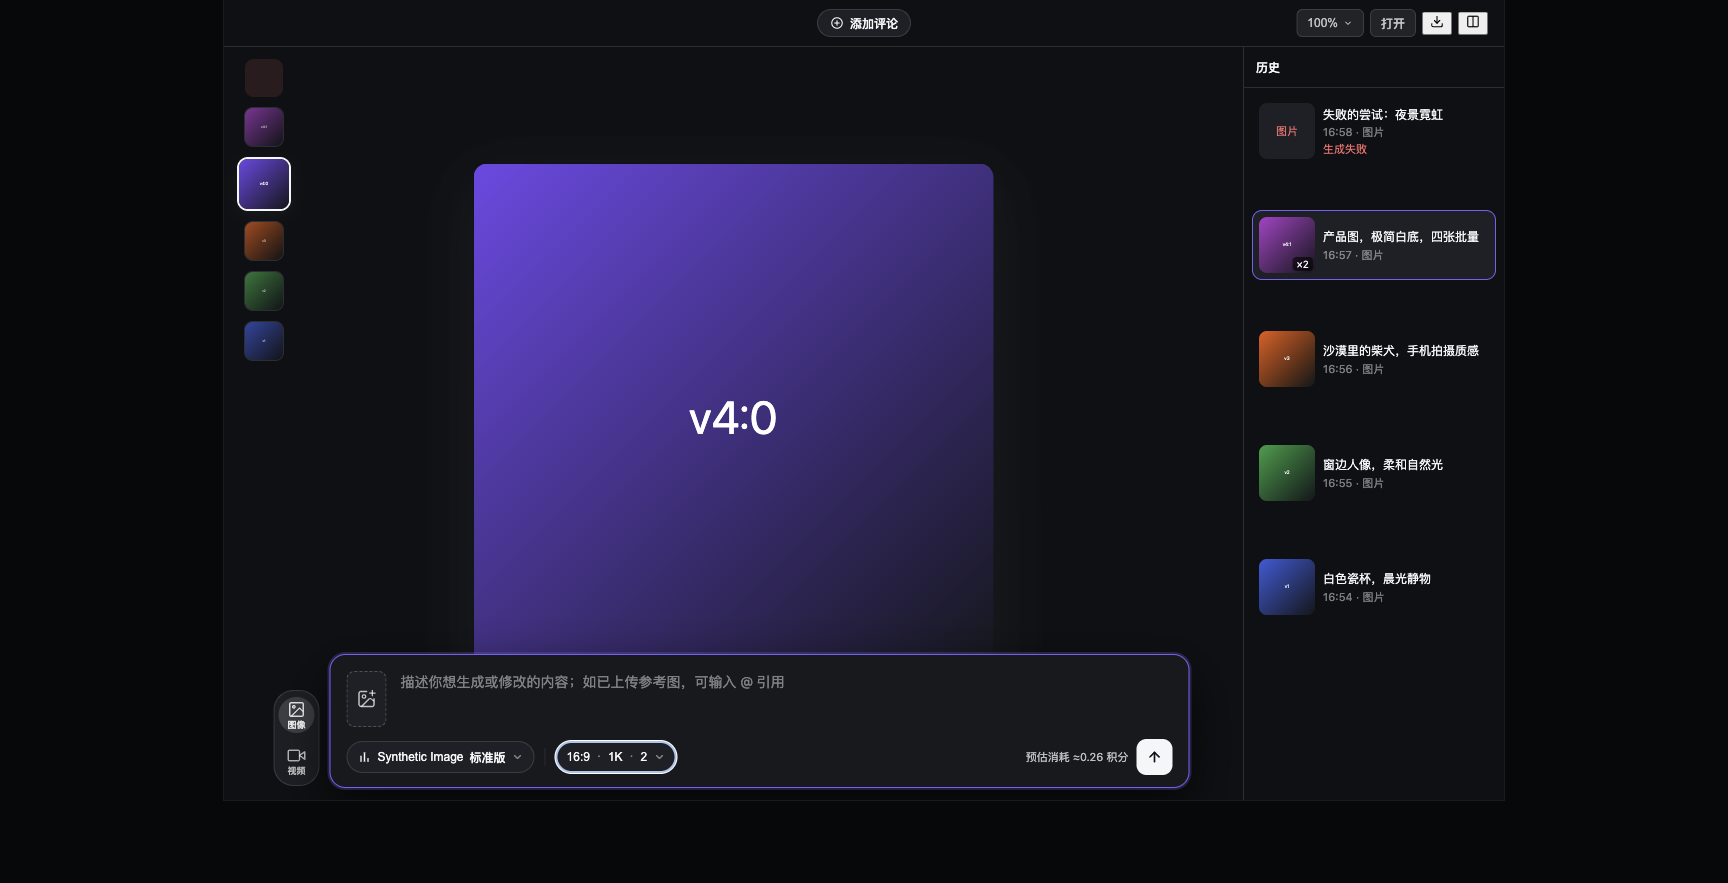
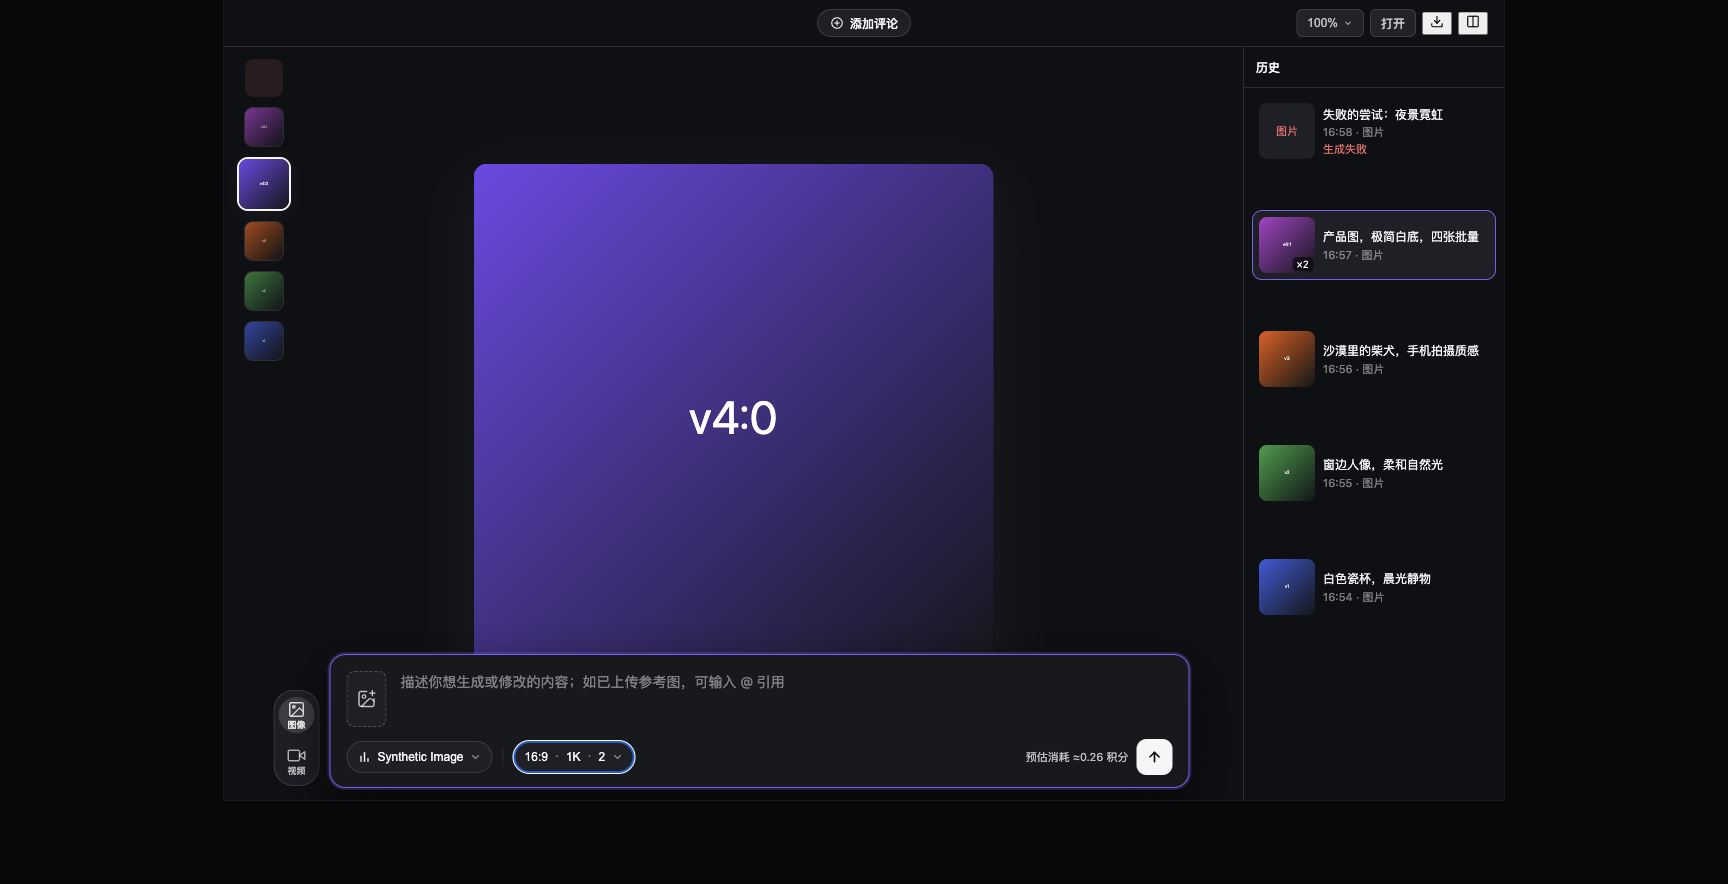
fix(viewer): 图像生成模型胶囊只显示模型名称 (#4120)
* fix(viewer): 模型胶囊只显示模型名称

* test(viewer): 刷新模型胶囊浏览器证据

* docs(viewer): 补充模型胶囊修改前后演示

diff --git a/docs/evidence/viewer-model-capsule-id-only-demo.html b/docs/evidence/viewer-model-capsule-id-only-demo.html
@@ -1,0 +1,205 @@
+<!doctype html>
+<html lang="zh-CN" data-theme="dark">
+<head>
+  <meta charset="utf-8" />
+  <meta name="viewport" content="width=device-width, initial-scale=1" />
+  <title>图像生成 · 模型按钮只显示模型名称 · 修改前后对比</title>
+  <style>
+    :root {
+      color-scheme: dark;
+      --bg: #0b0b0c;
+      --surface: #141416;
+      --surface-raised: #1c1c1f;
+      --surface-hover: #242428;
+      --line: #2e2e33;
+      --line-strong: #3f3f46;
+      --text: #f4f4f5;
+      --text-secondary: #a1a1aa;
+      --text-tertiary: #71717a;
+      --accent: #8b5cf6;
+      --accent-soft: rgba(139, 92, 246, 0.16);
+      --danger: #f87171;
+      --success: #34d399;
+      --shadow: 0 20px 60px rgba(0, 0, 0, 0.55);
+    }
+    html[data-theme="light"] {
+      color-scheme: light;
+      --bg: #f4f4f5;
+      --surface: #ffffff;
+      --surface-raised: #ffffff;
+      --surface-hover: #f4f4f5;
+      --line: #e4e4e7;
+      --line-strong: #d4d4d8;
+      --text: #18181b;
+      --text-secondary: #52525b;
+      --text-tertiary: #71717a;
+      --accent: #7c3aed;
+      --accent-soft: rgba(124, 58, 237, 0.1);
+      --danger: #dc2626;
+      --success: #059669;
+      --shadow: 0 18px 50px rgba(24, 24, 27, 0.12);
+    }
+    * { box-sizing: border-box; }
+    body {
+      margin: 0;
+      padding: 40px 32px 64px;
+      background: var(--bg);
+      color: var(--text);
+      font: 14px/1.5 -apple-system, BlinkMacSystemFont, "Segoe UI", "PingFang SC", "Hiragino Sans GB", sans-serif;
+      transition: background 160ms ease, color 160ms ease;
+    }
+    .page { max-width: 1180px; margin: 0 auto; }
+    .page-head { display: flex; align-items: flex-end; justify-content: space-between; gap: 24px; margin-bottom: 26px; }
+    h1 { margin: 0 0 8px; font-size: 24px; line-height: 1.25; letter-spacing: -0.01em; }
+    .lede { margin: 0; color: var(--text-secondary); max-width: 720px; }
+    .controls { display: flex; gap: 8px; flex-shrink: 0; }
+    .control-btn {
+      height: 34px; padding: 0 14px; border-radius: 999px;
+      border: 1px solid var(--line-strong); background: var(--surface); color: var(--text);
+      font: inherit; font-size: 13px; cursor: pointer;
+    }
+    .control-btn[aria-pressed="true"] { border-color: var(--accent); background: var(--accent-soft); color: var(--accent); }
+    .compare { display: grid; grid-template-columns: 1fr 1fr; gap: 20px; }
+    .card {
+      border: 1px solid var(--line); border-radius: 18px; background: var(--surface);
+      box-shadow: var(--shadow); overflow: hidden;
+    }
+    .card-head { display: flex; align-items: center; justify-content: space-between; padding: 16px 18px 12px; border-bottom: 1px solid var(--line); }
+    .card-title { display: flex; align-items: center; gap: 8px; font-weight: 650; font-size: 15px; }
+    .tag { font-size: 11px; font-weight: 600; border-radius: 999px; padding: 3px 8px; }
+    .tag.before { background: rgba(248, 113, 113, 0.12); color: var(--danger); }
+    .tag.after { background: rgba(52, 211, 153, 0.12); color: var(--success); }
+    .card-note { color: var(--text-secondary); font-size: 12px; padding: 12px 18px 16px; }
+    .composer { padding: 20px 18px 18px; }
+    .stage {
+      height: 180px; border-radius: 12px; border: 1px dashed var(--line-strong);
+      background:
+        radial-gradient(120% 90% at 50% 0%, var(--accent-soft), transparent 62%),
+        var(--surface-raised);
+      display: grid; place-items: center; color: var(--text-tertiary); font-size: 12px; margin-bottom: 16px;
+    }
+    .prompt {
+      width: 100%; min-height: 44px; resize: none; border: 0; outline: 0;
+      background: transparent; color: var(--text); font: inherit; line-height: 1.6; padding: 2px 2px 10px;
+    }
+    .prompt::placeholder { color: var(--text-tertiary); }
+    .toolbar {
+      display: flex; align-items: center; justify-content: space-between; gap: 12px;
+      border-top: 1px solid var(--line); padding-top: 12px;
+    }
+    .toolbar-left { display: flex; align-items: center; gap: 8px; min-width: 0; }
+    .capsule {
+      display: inline-flex; align-items: center; gap: 6px; height: 32px; padding: 0 10px;
+      border: 1px solid var(--line-strong); border-radius: 999px; background: var(--surface-raised);
+      font-size: 12px; font-weight: 500; white-space: nowrap; max-width: 100%;
+    }
+    .capsule svg { flex: none; color: var(--text-secondary); }
+    .capsule .model-name { overflow: hidden; text-overflow: ellipsis; }
+    .capsule .channel-name { color: var(--text-secondary); font-weight: 400; overflow: hidden; text-overflow: ellipsis; }
+    .capsule .chevron { color: var(--text-tertiary); }
+    .capsule-btn { cursor: default; }
+    .params {
+      display: inline-flex; align-items: center; gap: 4px; height: 32px; padding: 0 10px;
+      border-radius: 8px; color: var(--text-secondary); font-size: 12px; white-space: nowrap;
+    }
+    .cost { color: var(--text-tertiary); font-size: 12px; white-space: nowrap; }
+    .meta { display: flex; gap: 18px; margin-top: 18px; color: var(--text-secondary); font-size: 12px; flex-wrap: wrap; }
+    .meta b { color: var(--text); font-weight: 600; }
+    .measure {
+      display: inline-flex; align-items: center; height: 18px; padding: 0 6px; border-radius: 4px;
+      background: var(--surface-hover); color: var(--text-tertiary); font-size: 11px;
+    }
+    .narrow .compare { grid-template-columns: 1fr; max-width: 430px; margin: 0 auto; }
+    .legend { margin-top: 24px; padding: 14px 16px; border-radius: 12px; border: 1px solid var(--line); color: var(--text-secondary); background: var(--surface); }
+    .legend code { color: var(--text); font-family: ui-monospace, SFMono-Regular, Menlo, monospace; font-size: 12px; }
+    @media (max-width: 900px) {
+      body { padding: 24px 16px 40px; }
+      .page-head { flex-direction: column; align-items: flex-start; }
+      .compare { grid-template-columns: 1fr; }
+    }
+  </style>
+</head>
+<body>
+  <main class="page" id="page">
+    <header class="page-head">
+      <div>
+        <h1>图像生成 · 模型按钮只显示模型名称</h1>
+        <p class="lede">同一段底部工具条：左边是修改前，模型名后面跟着渠道分组名「畅享版（自建账号池 / 随心用）」；右边是修改后，只保留「Muse Image」。渠道选择仍可在点开后的「选择版本」列查看。</p>
+      </div>
+      <div class="controls">
+        <button class="control-btn" id="themeBtn" type="button" aria-pressed="false">切换亮色</button>
+        <button class="control-btn" id="narrowBtn" type="button" aria-pressed="false">窄屏预览</button>
+      </div>
+    </header>
+
+    <section class="compare" aria-label="修改前后对比">
+      <article class="card">
+        <div class="card-head">
+          <div class="card-title">修改前 <span class="tag before">分组名占据按钮</span></div>
+          <span class="measure">按钮宽 318px</span>
+        </div>
+        <div class="composer">
+          <div class="stage">图像预览区</div>
+          <textarea class="prompt" rows="1" placeholder="描述你想生成或修改的内容；如已上传参考图，可输入 @ 引用"></textarea>
+          <div class="toolbar">
+            <div class="toolbar-left">
+              <button class="capsule capsule-btn" type="button" title="Muse Image · 畅享版（自建账号池 / 随心用）" aria-label="模型：Muse Image · 畅享版（自建账号池 / 随心用）">
+                <svg width="14" height="14" viewBox="0 0 24 24" fill="none" stroke="currentColor" stroke-width="2.5"><line x1="6" y1="20" x2="6" y2="10"/><line x1="12" y1="20" x2="12" y2="4"/><line x1="18" y1="20" x2="18" y2="14"/></svg>
+                <span class="model-name">Muse Image</span>
+                <span class="channel-name">畅享版（自建账号池 / 随心用）</span>
+                <svg class="chevron" width="12" height="12" viewBox="0 0 16 16" fill="none" stroke="currentColor" stroke-width="1.75"><path d="m4 6 4 4 4-4"/></svg>
+              </button>
+              <span class="params">16:9 · 1K · 1</span>
+            </div>
+            <span class="cost">预估消耗 ≈0.01 积分</span>
+          </div>
+        </div>
+        <div class="card-note">模型名和渠道分组名混在同一层级，长括号说明让按钮变宽，也让用户误以为两者是同一个选择。</div>
+      </article>
+
+      <article class="card">
+        <div class="card-head">
+          <div class="card-title">修改后 <span class="tag after">只显示模型名</span></div>
+          <span class="measure">按钮宽 118px</span>
+        </div>
+        <div class="composer">
+          <div class="stage">图像预览区</div>
+          <textarea class="prompt" rows="1" placeholder="描述你想生成或修改的内容；如已上传参考图，可输入 @ 引用"></textarea>
+          <div class="toolbar">
+            <div class="toolbar-left">
+              <button class="capsule capsule-btn" type="button" title="Muse Image" aria-label="模型：Muse Image">
+                <svg width="14" height="14" viewBox="0 0 24 24" fill="none" stroke="currentColor" stroke-width="2.5"><line x1="6" y1="20" x2="6" y2="10"/><line x1="12" y1="20" x2="12" y2="4"/><line x1="18" y1="20" x2="18" y2="14"/></svg>
+                <span class="model-name">Muse Image</span>
+                <svg class="chevron" width="12" height="12" viewBox="0 0 16 16" fill="none" stroke="currentColor" stroke-width="1.75"><path d="m4 6 4 4 4-4"/></svg>
+              </button>
+              <span class="params">16:9 · 1K · 1</span>
+            </div>
+            <span class="cost">预估消耗 ≈0.01 积分</span>
+          </div>
+        </div>
+        <div class="card-note">按钮只回答「我现在用哪个模型」。渠道分组在展开的三级菜单「选择版本」里照常显示和切换，选择行为不变。</div>
+      </article>
+    </section>
+
+    <div class="legend">
+      交互说明：点模型按钮打开级联菜单 → 第三列「选择版本」仍列出 <code>畅享版（自建账号池 / 随心用）</code>、标准版等全部渠道；选中后按钮回显只更新模型名。当前演示为静态样本，不连接真实模型目录。
+    </div>
+  </main>
+  <script>
+    const themeBtn = document.getElementById('themeBtn');
+    const narrowBtn = document.getElementById('narrowBtn');
+    const page = document.getElementById('page');
+    themeBtn.addEventListener('click', () => {
+      const light = document.documentElement.dataset.theme === 'light';
+      document.documentElement.dataset.theme = light ? 'dark' : 'light';
+      themeBtn.setAttribute('aria-pressed', String(!light));
+      themeBtn.textContent = light ? '切换亮色' : '切换暗色';
+    });
+    narrowBtn.addEventListener('click', () => {
+      const narrow = page.classList.toggle('narrow');
+      narrowBtn.setAttribute('aria-pressed', String(narrow));
+      narrowBtn.textContent = narrow ? '退出窄屏' : '窄屏预览';
+    });
+  </script>
+</body>
+</html>

diff --git a/plugins/omnimux-viewer/src/media-viewer/gpt-image-gateway-3071.e2e.test.js b/plugins/omnimux-viewer/src/media-viewer/gpt-image-gateway-3071.e2e.test.js
@@ -41,6 +41,11 @@ test('image channel switch retains ratio and narrows standard resolution/batch w
     const state = () => JSON.parse(document.getElementById('state').textContent);
     const channel = async (id) => { await click('#modelCascadeTriggerBtn'); const buttons = [...document.querySelectorAll('.omx-version-row')]; const node = buttons.find(button => button.querySelector('.omx-version-name')?.textContent === id); assert.ok(node, id); await act(async () => node.click()); };
     assert.equal(state().channel, 'standard');
+    const trigger = document.querySelector('#modelCascadeTriggerBtn');
+    assert.equal(trigger.textContent.trim(), 'GPT Image 2.5', '模型胶囊只显示模型名称');
+    assert.equal(trigger.querySelector('.omx-channel-name-display'), null, '模型胶囊不得渲染渠道分组名');
+    assert.equal(trigger.getAttribute('title'), 'GPT Image 2.5');
+    assert.equal(trigger.getAttribute('aria-label'), '模型：GPT Image 2.5');
     const { DEFAULT_FALLBACK_CATALOG, parseCatalogToCascade, imageParameterOptions } = await import('./MediaViewerComposerData.js');
     const imageModels = parseCatalogToCascade(DEFAULT_FALLBACK_CATALOG.image).flatMap(brand => brand.models);
     // The fallback now pins gpt-image-2.5's default line to 1K while seedream-5-0-pro keeps the full domain.

diff --git a/plugins/omnimux-viewer/src/media-viewer/media-config-controls.e2e.test.js b/plugins/omnimux-viewer/src/media-viewer/media-config-controls.e2e.test.js
@@ -126,4 +126,18 @@ describe('MediaViewer UI Polish & Spec Compliance', () => {
     assert.match(MEDIA_VIEWER_CSS, /\.omx-mode-pill\s*\{[^}]*word-break:\s*keep-all;/);
     assert.match(MEDIA_VIEWER_CSS, /\.omx-mode-pill\s*\{[^}]*min-width:\s*0;/);
   });
+
+  it('Step 8: 模型胶囊只显示模型名，不显示渠道分组名', () => {
+    const jsxPath = path.join(__dirname, './MediaConfigControls.jsx');
+    const jsxContent = fs.readFileSync(jsxPath, 'utf8');
+    const triggerStart = jsxContent.indexOf('id="modelCascadeTriggerBtn"');
+    assert.notEqual(triggerStart, -1, '必须存在模型级联触发器');
+    const triggerEnd = jsxContent.indexOf('</button>', triggerStart);
+    assert.notEqual(triggerEnd, -1, '模型级联触发器必须是完整 button');
+    const trigger = jsxContent.slice(triggerStart, triggerEnd);
+
+    assert.match(trigger, /className="omx-model-name-display"/, '触发器必须渲染模型名');
+    assert.doesNotMatch(trigger, /omx-channel-name-display/, '触发器不得渲染渠道分组名');
+    assert.doesNotMatch(trigger, /channel\?\.name/, '触发器的 title / aria-label 不得拼接渠道分组名');
+  });
 });

diff --git a/plugins/omnimux-viewer/src/media-viewer/MediaConfigControls.jsx b/plugins/omnimux-viewer/src/media-viewer/MediaConfigControls.jsx
@@ -196,8 +196,8 @@ export function MediaModelCascade({ config, open, onToggle, onPicked }) {
         type="button"
         className={`omx-capsule-trigger ${open ? 'is-active' : ''}`}
         onClick={onToggle}
-        title={`${model?.name || '选择模型'}${channel?.name ? ` · ${channel.name}` : ''}`}
-        aria-label={`模型：${model?.name || '选择模型'}${channel?.name ? ` · ${channel.name}` : ''}`}
+        title={model?.name || '选择模型'}
+        aria-label={`模型：${model?.name || '选择模型'}`}
         aria-haspopup="dialog"
         aria-expanded={open}
       >
@@ -207,7 +207,6 @@ export function MediaModelCascade({ config, open, onToggle, onPicked }) {
           <line x1="18" y1="20" x2="18" y2="14" />
         </svg>
         <span className="omx-model-name-display">{model?.name || '选择模型'}</span>
-        {channel?.name ? <span className="omx-channel-name-display">{channel.name}</span> : null}
         <ChevronIcon />
       </button>
 

diff --git a/specs/viewer-model-capsule-id-only.spec.md b/specs/viewer-model-capsule-id-only.spec.md
@@ -1,0 +1,46 @@
+# 图像生成模型胶囊只显示模型名称
+
+## 背景
+
+图像生成（omnimux-viewer）底部工具条的模型触发按钮 `#modelCascadeTriggerBtn` 当前同时渲染模型名与渠道分组名：
+
+- 模型列：`Muse Image`
+- 渠道列：`畅享版（自建账号池 / 随心用）`
+
+两者拼在同一个胶囊里，长分组名把按钮撑得很宽，也把「模型」和「渠道策略」两个层级混在一处。用户选择模型后只需要确认模型本身，渠道分组属于第二级决策，打开级联菜单即可查看。
+
+## 目标
+
+1. 模型触发按钮只显示模型名称（如 `Muse Image`），不显示渠道分组名。
+2. `title` / `aria-label` 同步只包含模型名称，不把分组名留在悬浮提示或读屏文案里。
+3. 级联菜单第三列「选择版本」仍完整展示渠道分组名，选择和写入语义不变。
+
+## 非目标
+
+- 不修改模型目录、渠道分组数据、价格或路由字段。
+- 不修改级联菜单的三列结构、选择逻辑和提交载荷。
+- 不修改 `showModelSummary` 在快捷方式中的回执（本任务只处理图像生成底部模型按钮）。
+
+## 研究依据
+
+- `plugins/omnimux-viewer/src/media-viewer/MediaConfigControls.jsx`：`MediaModelCascade` 触发器同时渲染 `.omx-model-name-display` 与 `.omx-channel-name-display`；`title` / `aria-label` 也拼接 `channel.name`。
+- 同文件第三列 `.omx-version-title` 已独立展示「选择版本」与每个渠道名，渠道信息不会丢失。
+- `plugins/omnimux-viewer/src/media-viewer/media-config-controls.e2e.test.js`：已有针对 `MediaConfigControls.jsx` DOM 结构的源码契约测试，可在同一文件补充回归断言。
+
+## 验收标准
+
+- 渲染 `MediaConfigControls` 后，`#modelCascadeTriggerBtn` 的可见文本等于所选模型名称，不包含渠道分组名。
+- `#modelCascadeTriggerBtn` 的 `title` 与 `aria-label` 不包含渠道分组名。
+- 打开级联菜单后，第三列 `.omx-version-row` 仍显示并可选全部渠道分组。
+- 离线组件测试通过；演示页覆盖修改前后对比、亮/暗主题与窄屏。
+
+## 实施边界
+
+只改 `plugins/omnimux-viewer/src/media-viewer/MediaConfigControls.jsx`、对应的 `media-config-controls.e2e.test.js` / `gpt-image-gateway-3071.e2e.test.js`、演示页 `docs/evidence/viewer-model-capsule-id-only-demo.html` 和对应的本地截图；不触碰模型目录、Hub、网关注入或渠道路由。
+
+## 验证
+
+- `node --test plugins/omnimux-viewer/src/media-viewer/media-config-controls.e2e.test.js`
+- `node --test plugins/omnimux-viewer/src/media-viewer/gpt-image-gateway-3071.e2e.test.js`
+- `node scripts/build.mjs`（plugins/omnimux-viewer）
+- 静态演示页浏览器检查（亮/暗、窄屏）；本轮不发起真实模型请求。
